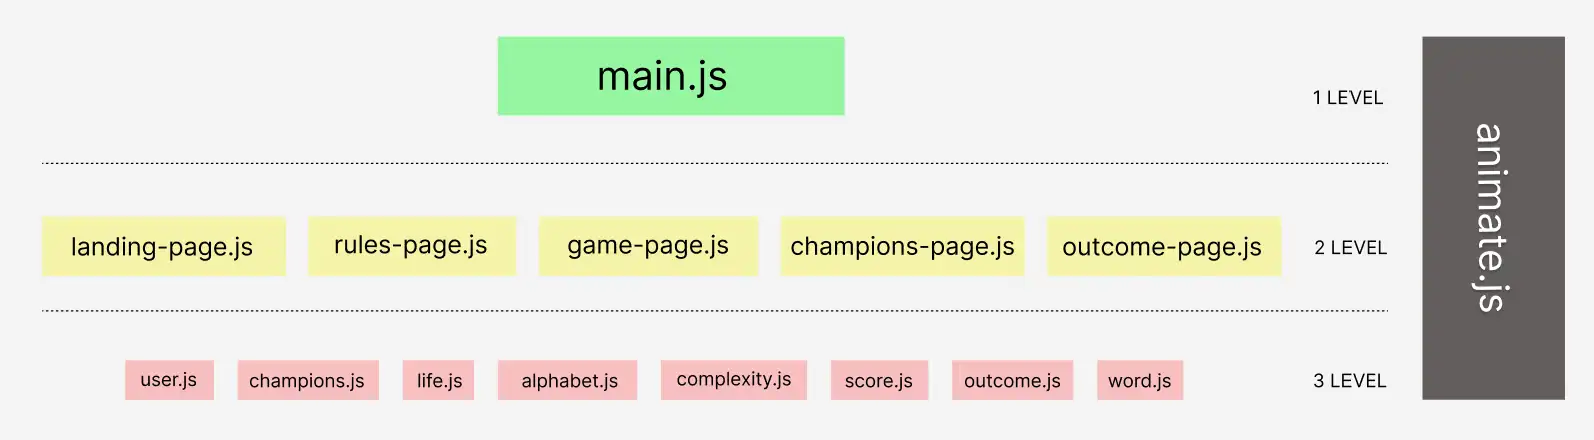
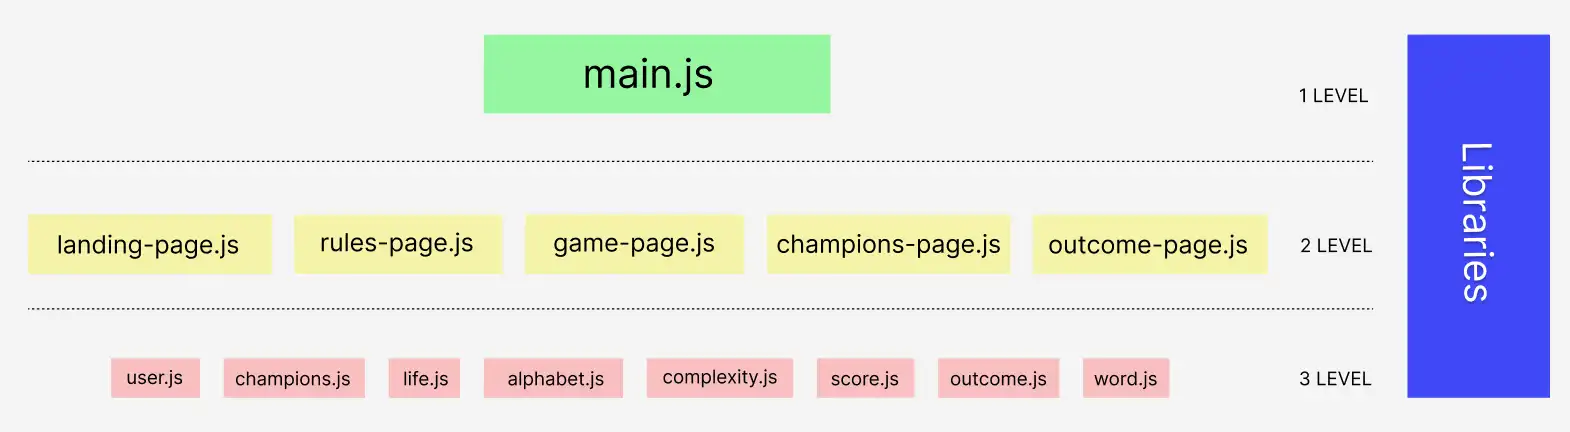
Fix calculate score's bug and add comments

diff --git a/assets/js/components/score.js b/assets/js/components/score.js
@@ -1,31 +1,60 @@
+// Define the score thresholds for one-star and two-star ratings
+// Any score above the highest value in the twoStarCutoff array will earn three stars
+// This can be handled in the function that evaluates the score, see getScoreTier bellow
+
+// The oneStarCutoff array contains the score thresholds for earning one star
+// based on different difficulty levels. Each index represents a different
+// level of difficulty, with higher scores required for easier levels.
 const oneStarCutoff = [400, 300, 200];
+
+// The twoStarCutoff array contains the score thresholds for earning two stars
+// based on different difficulty levels. Each index represents a different
+// level of difficulty, with higher scores required for easier levels.
 const twoStarCutoff = [800, 700, 600];
 
+/**
+ * This function ensures that the value stays within the range [0, 1].
+ * If the value is less than 0, it returns 0.
+ * If the value is greater than 1, it returns 1.
+ * Otherwise, it returns the value itself.
+ *
+ * @param {Number} value - the input value to be clamped
+ * @returns {Number} - the clamped value between 0 and 1
+ */
 function clamp(value) {
   return Math.min(Math.max(value, 0), 1);
 }
 
 /**
- * Calculate score based on parameters
+ * Evaluate the player's performance by considering the total mistakes made
+ * and the total time taken, relative to their maximum allowable values
  *
- * It calculates the score in range from 0 to 1 inclusive.
- * The higher value means better player performance.
+ * The score calculation involves the following steps:
+ * 1. Mistakes contribution: Normalizes the total mistakes to a range [0, 1]
+ * 2. Time contribution: Normalizes the total time to a range [0, 1]
+ * 3. Score: Sums the normalized mistakes and time contributions
+ * 4. Normalized score: Converts the score to a value between 0 and 1000
  *
- * @param {Number} totalMiskates
- * @param {Number} maxMistakes
- * @param {*} totalTime
- * @param {*} maxTime
- * @returns
+ * @param {Number} totalMistakes - the total number of mistakes made by the player
+ * @param {Number} maxMistakes - the maximum allowable mistakes
+ * @param {Number} totalTime - the total time taken by the player
+ * @param {Number} maxTime - the maximum allowable time
+ *
+ * @returns {Number} - the calculated normalized score
  */
 function getScore(totalMiskates, maxMistakes, totalTime, maxTime) {
-  const mistakesContribution = (totalMiskates * 100) / maxMistakes;
-  console.log("mistakesContribution: ", mistakesContribution);
-  const timeContribution = (totalTime * 100) / maxTime;
-  console.log("timeContribution: ", timeContribution);
-  const score = mistakesContribution + timeContribution;
-  console.log("getScore, score: ", score);
+  // Normalize the total mistakes to a range [0, 1]
+  const mistakesContribution = clamp(totalMiskates / maxMistakes);
 
-  const normalizedScore = Math.trunc(clamp(1 - score / 200) * 1000);
+  // Normalize the total time to a range [0, 1]
+  const timeContribution = clamp(totalTime / maxTime);
+
+  //Sum the normalized mistakes and time contributions, a range [0, 2]
+  const score = mistakesContribution + timeContribution;
+
+  // Convert the score to a value between 0 and 1000
+  // to display on the game outcome page
+  const normalizedScore = (score / 2) * 1000;
 
   return normalizedScore;
 }
@@ -48,8 +77,13 @@ export function getScoreTier(
   maxTime,
   complexity
 ) {
+  console.log("totalMiskates: ", totalMiskates);
+  console.log("maxMistakes: ", maxMistakes);
+  console.log("totalTime: ", totalTime);
+  console.log("maxTime: ", maxTime);
+  console.log("complexity: ", complexity);
+
   const score = getScore(totalMiskates, maxMistakes, totalTime, maxTime);
-  console.log("getScoreTier, score: ", score);
 
   // Determine the tier by comparing the score with predefined cutoffs for the specified complexity level
   let tier = 3;

diff --git a/README.md b/README.md
@@ -74,6 +74,9 @@ The playful pineapple, catchy tagline, and game invitation convey the website's 
 
 A fun and inviting call to action with an input field for user's name and a "Play" button makes starting the WIZY game exciting and easy.
 
+> [!NOTE]
+> The picture cropping on small screens is intentional and reflects the author's personal style.
+
 ### F03 Home page - input form
 
 A friendly input field with the placeholder "Enter your name" and a "Play" button offers a straightforward and complete way for users to log in and start playing.
@@ -254,6 +257,9 @@ As a result, the list of champions on the champions page will be updated.
    </tr>
 </table>
 
+> [!NOTE]
+> The picture cropping on small screens is intentional and reflects the author's personal style.
+
 ### F17 page 500
 
 <table style="border:none;">
@@ -273,9 +279,12 @@ As a result, the list of champions on the champions page will be updated.
    </tr>
 </table>
 
+> [!NOTE]
+> The picture cropping on small screens is intentional and reflects the author's personal style.
+
 ## Future features
 
-> - Create a personal account to track user's progress.
+> - Create a unique personal account to track user's progress.
 > - Option to pause the game.
 > - Get hints or clues, when a user is stuck.
 > - Allow a user to log out by clicking the icon with the first letter of your username in the header and confirming.
@@ -299,33 +308,33 @@ It’s designed to evoke a sense of relaxation and joy, whether users are solvin
 <img src="assets/images/readme/color_palette.png" width="400" alt="WIZY color palette image"/>
 <br ><br >
 
-- <img src="assets/images/readme/066D82.png" width="20" alt="066D82 color image"/> #066D82 "Carribean current" <br >
+- <img src="assets/images/readme/066D82.png" width="20" alt="066D82 color image"/> #066D82 - **Carribean current** <br >
   A deep, vibrant teal, reminiscent of tropical waters. This color provides a refreshing and calming backdrop, evoking the serenity of a beach vacation.
 
-- <img src="assets/images/readme/D03B3E.png" width="20" alt="D03B3E color image"/> #D03B3E "Poppy" <br >
+- <img src="assets/images/readme/D03B3E.png" width="20" alt="D03B3E color image"/> #D03B3E - **Poppy** <br >
   A bold and striking red that brings energy and excitement. This vibrant hue captures attention and adds a lively touch, perfect for highlighting important elements.
 
-- <img src="assets/images/readme/F27858.png" width="20" alt="F27858 color image"/> #F27858 "Burned sienna" <br >
+- <img src="assets/images/readme/F27858.png" width="20" alt="F27858 color image"/> #F27858 - **Burned sienna** <br >
   A warm, earthy orange that adds a rustic charm. This color is akin to a beautiful sunset or autumn leaves, providing a cozy and inviting feel.
 
-- <img src="assets/images/readme/88CBD7.png" width="20" alt="88CBD7 color image"/> #88CBD7 "Non photo blue" <br >
+- <img src="assets/images/readme/88CBD7.png" width="20" alt="88CBD7 color image"/> #88CBD7 - **Non photo blue** <br >
   A light, airy blue reminiscent of clear skies. This uplifting color adds a breezy, cheerful touch, promoting a sense of clarity and openness.
 
-- <img src="assets/images/readme/9FBC5A.png" width="20" alt="9FBC5A color image"/> #9FBC5A "Olivine" <br >
+- <img src="assets/images/readme/9FBC5A.png" width="20" alt="9FBC5A color image"/> #9FBC5A - **Olivine** <br >
   A soothing, natural green that brings a hint of nature. This color is similar to fresh foliage, offering a grounding and balancing effect.
 
-- <img src="assets/images/readme/E6C149.png" width="20" alt="E6C149 color image"/> #E6C149 "Saffron" <br >
+- <img src="assets/images/readme/E6C149.png" width="20" alt="E6C149 color image"/> #E6C149 - **Saffron** <br >
   A rich, golden yellow that exudes warmth and positivity. This cheerful hue is reminiscent of sunflowers, adding a sunny and optimistic vibe to the palette.
 
-- <img src="assets/images/readme/FAEBD7.png" width="20" alt="FAEBD7 color image"/> #FAEBD7 "Antique white" <br >
+- <img src="assets/images/readme/FAEBD7.png" width="20" alt="FAEBD7 color image"/> #FAEBD7 - **Antique white** <br >
   A soft, creamy off-white that serves as a neutral backdrop. This elegant color provides a timeless quality, helping to tie the other colors together harmoniously.
 
 To ensure clear visibility and readability, the following contrast colors have been chosen for the WIZY application:
 
-- <img src="assets/images/readme/3B3B3B.png" width="20" alt="3B3B3B color image"/> #3B3B3B "Onyx":
+- <img src="assets/images/readme/3B3B3B.png" width="20" alt="3B3B3B color image"/> #3B3B3B - **Onyx**:
   A dark gray color that shows up well against lighter backgrounds. It's used for text and important elements so they're easy to read.
 
-- #FFFFFF "White"
+- #FFFFFF - **White**
   A bright white color that stands out against darker and more colorful backgrounds. It's great for text and icons, making them clear and easy to see.
 
 These contrast colors help make sure everything on the app is easy to read and use.
@@ -398,7 +407,10 @@ The WIZY project architecture is organized into three levels:
 3. **Components Level**: This level consists of component JavaScript files. These components act as building blocks that are utilized by the page-level JavaScript files to construct the overall page logic and functionality.
    There are no horizontal dependencies at this level. The component js files depend only on library `animate.js` file.
 
-4. **Libraries**: This section contains project-wide libraries used as external dependencies, with the potential to be released as npm packages. It currently includes an animation library that provides animation capabilities for HTML elements.
+4. **Libraries**: This section contains project-wide libraries used as external dependencies, with the potential to be released as npm packages. <br >
+   It currently includes an animation library that provides animation capabilities for HTML elements.
+   In the current stage of the WIZY project, this library is imported into component JS files.
+   However, it could be used on other levels of the project if necessary.
 
 ## JavaScript Structure
 
